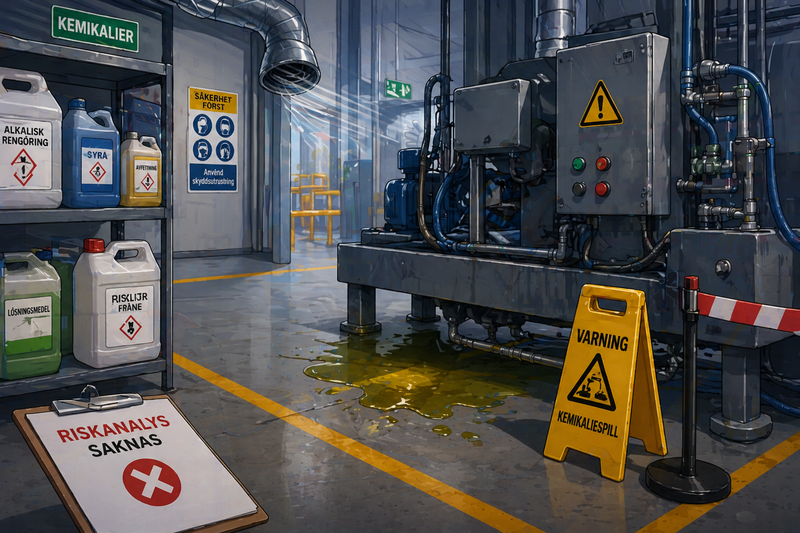
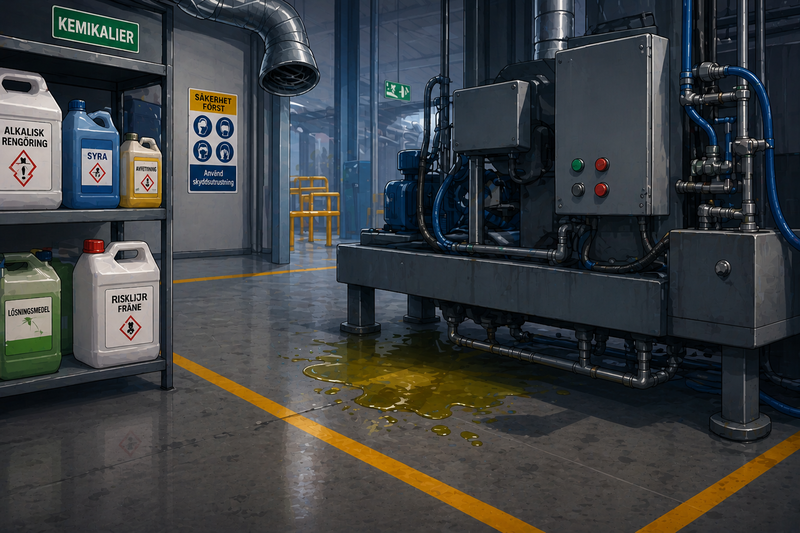
kemikalier

diff --git a/index.html b/index.html
@@ -256,6 +256,7 @@ $(document).on(':storyready', function () {
 window.sceneMedia = {
     "bg1":  { type: "image", url: "img/fabrik.png" },
     "bg2":  { type: "image", url: "img/kemikalier.png" },
+"bg3":  { type: "image", url: "img/torkar.png" },
     "vid1": { type: "video", url: "video/fallstege.mp4" }
 };
 
@@ -402,7 +403,7 @@ Macro.add("storyStatus", {
         $(this.output).append($(linkHtml));
     }
 });
-</script><tw-tag name="bg1" color="blue"></tw-tag><tw-tag name="full" color="green"></tw-tag><tw-tag name="container" color="blue"></tw-tag><tw-tag name="vid1" color="red"></tw-tag><tw-tag name="story:fallrisk" color="yellow"></tw-tag><tw-tag name="bg2" color="blue"></tw-tag><tw-tag name="widget" color="purple"></tw-tag><tw-tag name="story:fall" color="red"></tw-tag><tw-tag name="story:end" color="blue"></tw-tag><tw-tag name="story:kemikalier" color="blue"></tw-tag><tw-passagedata pid="1" name="Introduktion" tags="full" position="800,175" size="100,100">&lt;body class=&quot;full&quot;&gt;
+</script><tw-tag name="bg1" color="blue"></tw-tag><tw-tag name="full" color="green"></tw-tag><tw-tag name="container" color="blue"></tw-tag><tw-tag name="vid1" color="red"></tw-tag><tw-tag name="story:fallrisk" color="yellow"></tw-tag><tw-tag name="bg2" color="blue"></tw-tag><tw-tag name="widget" color="purple"></tw-tag><tw-tag name="story:fall" color="red"></tw-tag><tw-tag name="story:end" color="blue"></tw-tag><tw-tag name="story:kemikalier" color="blue"></tw-tag><tw-tag name="bg3" color="blue"></tw-tag><tw-passagedata pid="1" name="Introduktion" tags="full" position="800,175" size="100,100">&lt;body class=&quot;full&quot;&gt;
     &lt;header class=&quot;logo-header&quot;&gt;
         &lt;img src=&quot;img/logga3.png&quot; alt=&quot;ActSafe logga&quot; class=&quot;logo&quot;&gt;
     &lt;/header&gt;
@@ -420,7 +421,7 @@ Hur gör du?
 Ställer upp [[stegen]] och klättar upp, stegen är ju närmast.
 Ber din arbetskamrat hissa upp dig med [[trucken]]
 Hämtar en [[skylift]]
-Frågar någon som har utfört jobbet förut, personen säger att hen &quot;brukar bara ta [[stegen]] men var försiktig.&quot;</tw-passagedata><tw-passagedata pid="3" name="kemikalier" tags="bg2 story:kemikalier" position="1450,350" size="100,100">Kemikaliespill i produktion
+Frågar någon som har utfört jobbet förut, personen säger att hen &quot;brukar bara ta [[stegen]] men var försiktig.&quot;</tw-passagedata><tw-passagedata pid="3" name="kemikalier" tags="bg2 story:kemikalier container" position="1450,350" size="100,100">Kemikaliespill i produktion
 
 Du arbetar i en industrimiljö där kemikalier används vid rengöring och underhåll.
 Under ett arbetspass upptäcker du ett mindre spill av en vätska under en maskin. I närheten finns flera kemikaliebehållare, men det är oklart vilken som har läckt.
@@ -491,7 +492,7 @@ Om det inte finns ett internt system med riskanalyser så kan man hämta mallar 
 Prevent: https://view.officeapps.live.com/op/view.aspx?src=https%3A%2F%2Fwww.prevent.se%2Fglobalassets%2F.prevent.se%2Fmallar-och-exempel%2Friskbedomning-mall.xlsx&amp;wdOrigin=BROWSELINK
 eller gå in på: https://www.prevent.se/ där finns fler listor beroende på vad som ska riskanalyseras.
 
-[[test]]</tw-passagedata><tw-passagedata pid="9" name="test" tags="" position="100,550" size="100,100">[[start]] </tw-passagedata><tw-passagedata pid="10" name="Torkar upp spillet direkt" tags="" position="1225,625" size="100,100">Torkar upp direkt - Sämsta valet
+[[test]]</tw-passagedata><tw-passagedata pid="9" name="test" tags="" position="100,550" size="100,100">[[start]] </tw-passagedata><tw-passagedata pid="10" name="Torkar upp spillet direkt" tags="bg3 container" position="1225,625" size="100,100">Torkar upp direkt - Sämsta valet!
 
 Du hanterar ett spill utan att veta vad ämnet innehåller.
 
@@ -510,7 +511,7 @@ Hudkontakt kan orsaka skador
 Inandning av ångor kan vara farligt
 Stänk kan nå ögon
 Okänd kemikalie kan ge oväntade reaktioner
-Spill kan spridas vidare</tw-passagedata><tw-passagedata pid="11" name="Tar på handskar och försöker rengöra" tags="" position="1400,575" size="100,100">Tar på handskar och rengör - Bättre val men inte rätt
+Spill kan spridas vidare</tw-passagedata><tw-passagedata pid="11" name="Tar på handskar och försöker rengöra" tags="" position="1400,575" size="100,100">Tar på handskar och rengör - Bättre val men intedet bästa!
 
 Skyddsutrustning minskar risken, men du vet fortfarande inte vilken kemikalie du hanterar.
 
@@ -526,12 +527,12 @@ Största riskerna:
 Fel skyddsutrustning används
 Inandning av farliga ämnen
 Otillräcklig ventilation
-Falsk trygghet vid användning av skydd</tw-passagedata><tw-passagedata pid="12" name="Identifierar kemikalien och kontrollerar säkerhetsdatablad" tags="" position="1600,575" size="100,100">Kontrollerar information - Bra val
+Falsk trygghet vid användning av skydd</tw-passagedata><tw-passagedata pid="12" name="Identifierar kemikalien och kontrollerar säkerhetsdatablad" tags="" position="1600,575" size="100,100">Kontrollerar information - Bra val!
 Du tar reda på vilken kemikalie som har spillts genom att kontrollera märkning och säkerhetsdatablad.
 
 Genom att identifiera ämnet kan du förstå vilka risker som finns och hur det ska hanteras på ett säkert sätt.
 
-En riskanalys hjälper till att avgöra vilka åtgärder som behövs, till exempel rätt skyddsutrustning och hantering av spill.
+En [[riskanalys]] hjälper till att avgöra vilka åtgärder som behövs, till exempel rätt skyddsutrustning och hantering av spill.
 
 Detta bör kontrolleras:
 
@@ -541,11 +542,11 @@ Vilken skyddsutrustning som krävs
 Hur spillet ska saneras
 Om ventilationen är tillräcklig
 
-När du har rätt information kan arbetet utföras på ett säkrare sätt.</tw-passagedata><tw-passagedata pid="13" name="Spärrar av området och kontaktar ansvarig" tags="" position="1775,575" size="100,100">Spärrar av och rapporterar - Bra val
+När du har rätt information kan arbetet utföras på ett säkrare sätt.</tw-passagedata><tw-passagedata pid="13" name="Spärrar av området och kontaktar ansvarig" tags="" position="1775,575" size="100,100">Spärrar av och rapporterar - Bästa valet!
 
 Du minskar risken för att fler personer exponeras genom att spärra av området.
 
-Att rapportera händelsen är en viktig del av arbetsmiljöarbetet.
+Att rapportera händelsen och göra en [[riskanalys]] är en viktig del av arbetsmiljöarbetet.
 Det gör att problemet kan åtgärdas på rätt sätt och att liknande situationer kan förebyggas.
 
 Arbetet bör inte återupptas förrän riskerna är identifierade och hanterade.